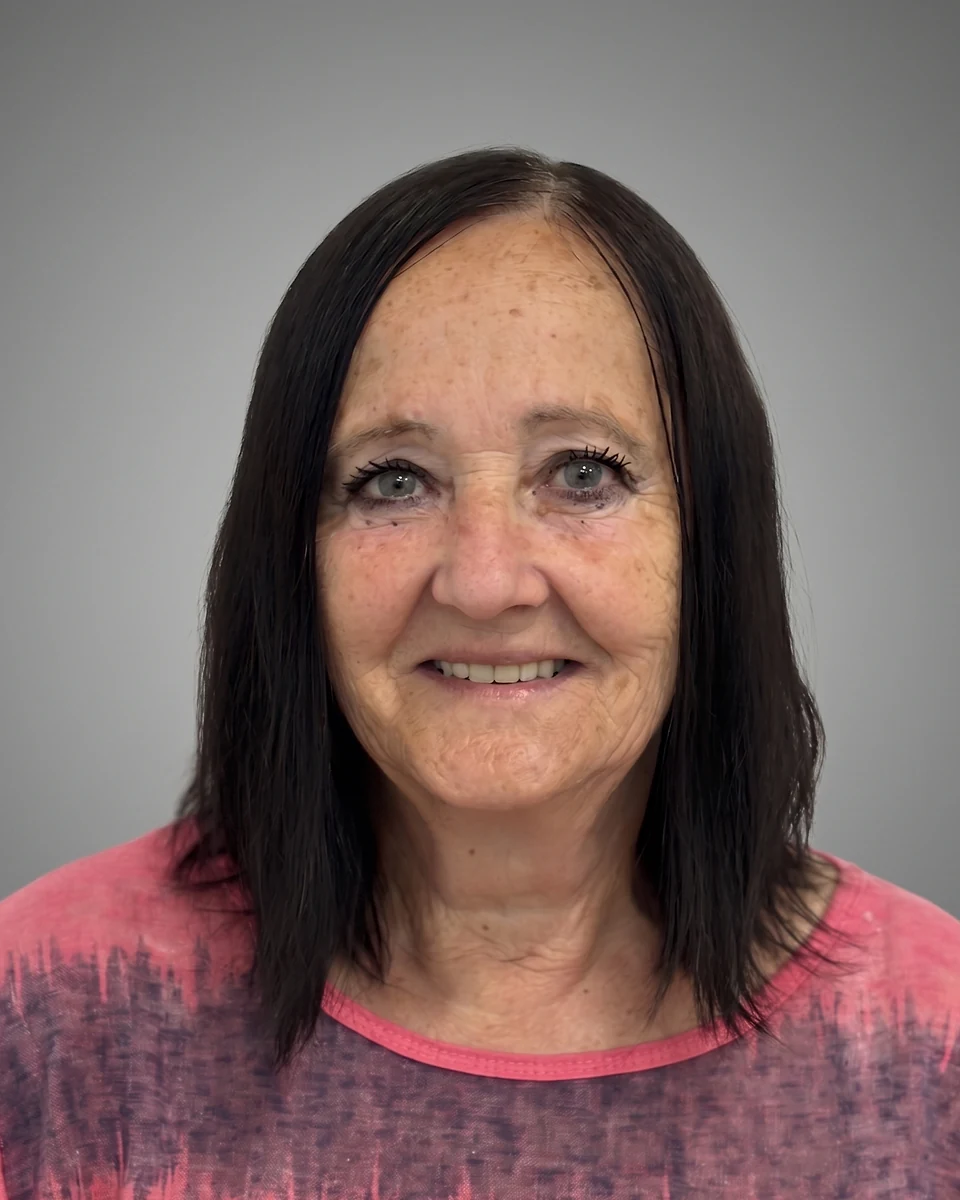
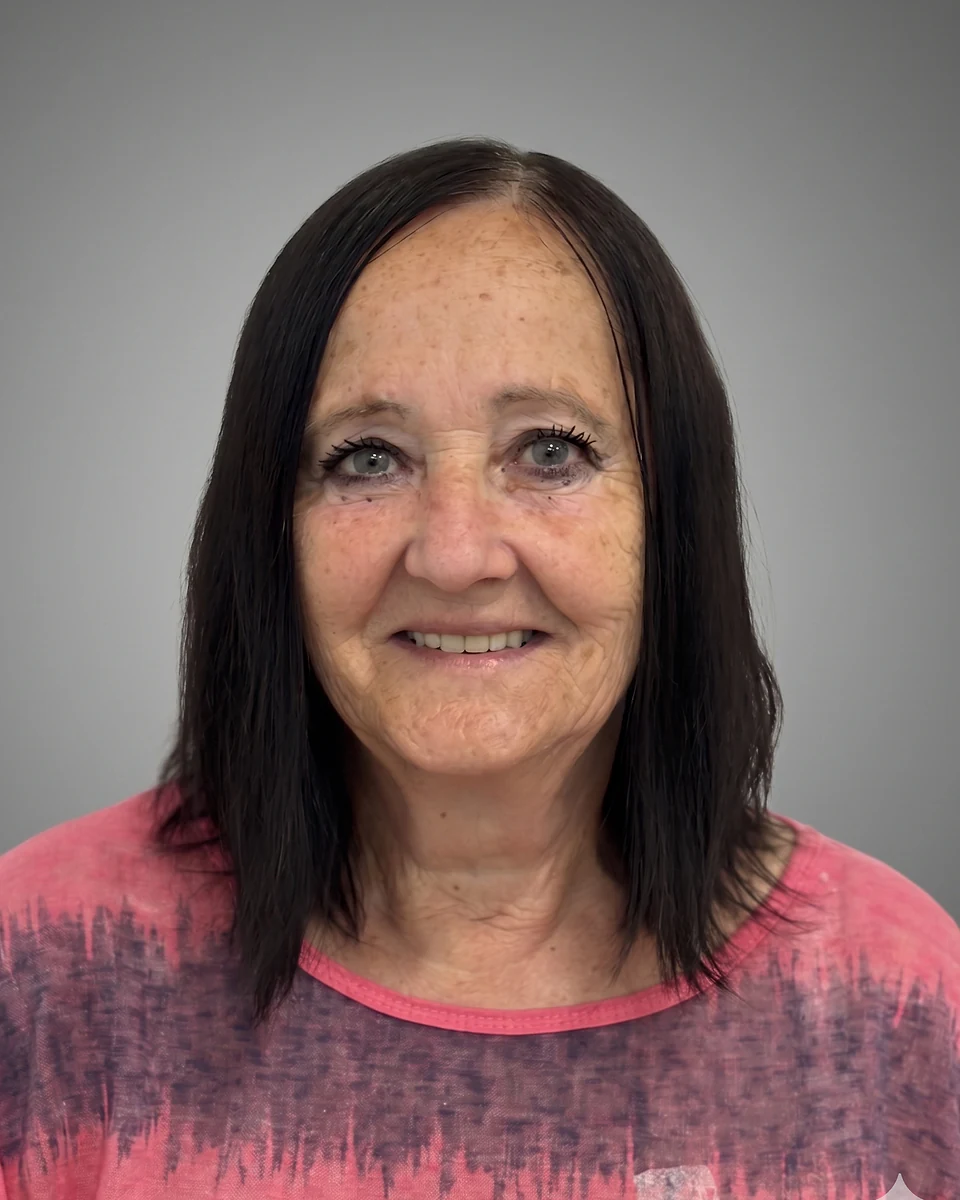
Zveřejnit kandidátky Kateřinu Parčovou a Alenu Sojákovou.
Včetně sjednocené oční linky u portrétu Sojákové.

diff --git a/lib/candidates.ts b/lib/candidates.ts
@@ -163,7 +163,7 @@ export const CANDIDATES: Candidate[] = [
     slug: 'katerina-parcova',
     name: 'Mgr. Bc. Kateřina Parčová',
     gridSlot: 7,
-    revealed: false,
+    revealed: true,
     heartPriority: 'Pro komunikaci',
     gender: 'female',
     photo: '/images/kandidati/katerina-parcova.webp',
@@ -202,7 +202,7 @@ export const CANDIDATES: Candidate[] = [
     slug: 'alena-sojakova',
     name: 'Alena Sojáková',
     gridSlot: 9,
-    revealed: false,
+    revealed: true,
     heartPriority: 'Pro seniory',
     gender: 'female',
     photo: '/images/kandidati/alena-sojakova.webp',
@@ -283,14 +283,28 @@ export function getCandidatesForGrid(): Candidate[] {
   return [...CANDIDATES].sort((a, b) => a.gridSlot - b.gridSlot);
 }
 
+const LOCAL_REVEAL_EXTRA_SLUGS = new Set(
+  (process.env.NEXT_PUBLIC_LOCAL_REVEAL_EXTRA_SLUGS ?? '')
+    .split(',')
+    .map((slug) => slug.trim())
+    .filter(Boolean),
+);
+
 /**
  * Na localhostu zobrazí celou mřížku pro srovnání fotek (`NEXT_PUBLIC_PRODUCTION_PREVIEW` není `true`).
  * S `NEXT_PUBLIC_PRODUCTION_PREVIEW=true` v `.env.local` chování jako na produkci.
+ * `NEXT_PUBLIC_LOCAL_REVEAL_EXTRA_SLUGS` (jen dev, v `.env.local`) dočasně odhalí další slugy bez změny `revealed`.
  */
 export function isCandidateRevealed(candidate: Candidate): boolean {
   if (
     process.env.NODE_ENV === 'development' &&
     process.env.NEXT_PUBLIC_PRODUCTION_PREVIEW !== 'true'
+  ) {
+    return true;
+  }
+  if (
+    process.env.NODE_ENV === 'development' &&
+    LOCAL_REVEAL_EXTRA_SLUGS.has(candidate.slug)
   ) {
     return true;
   }